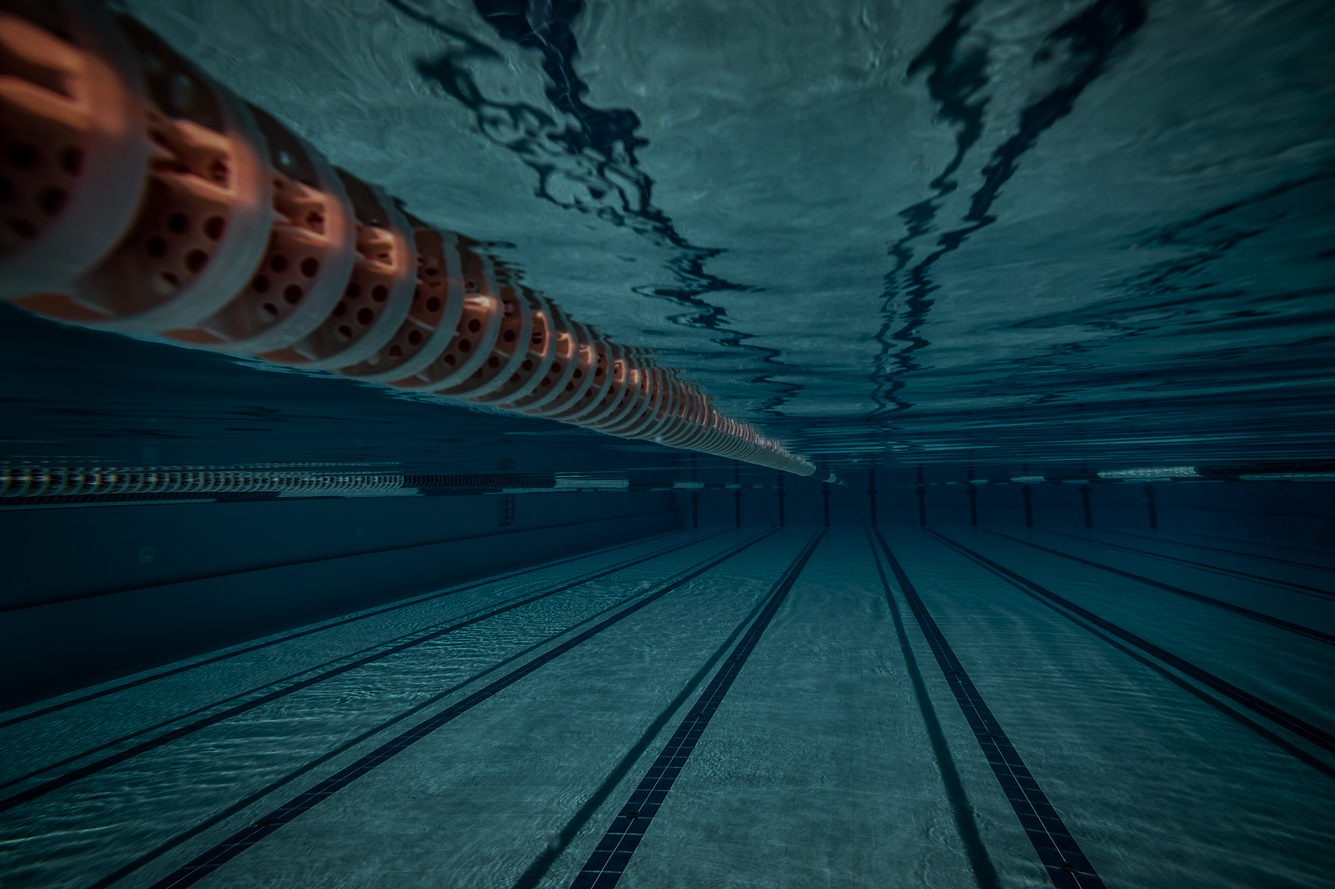
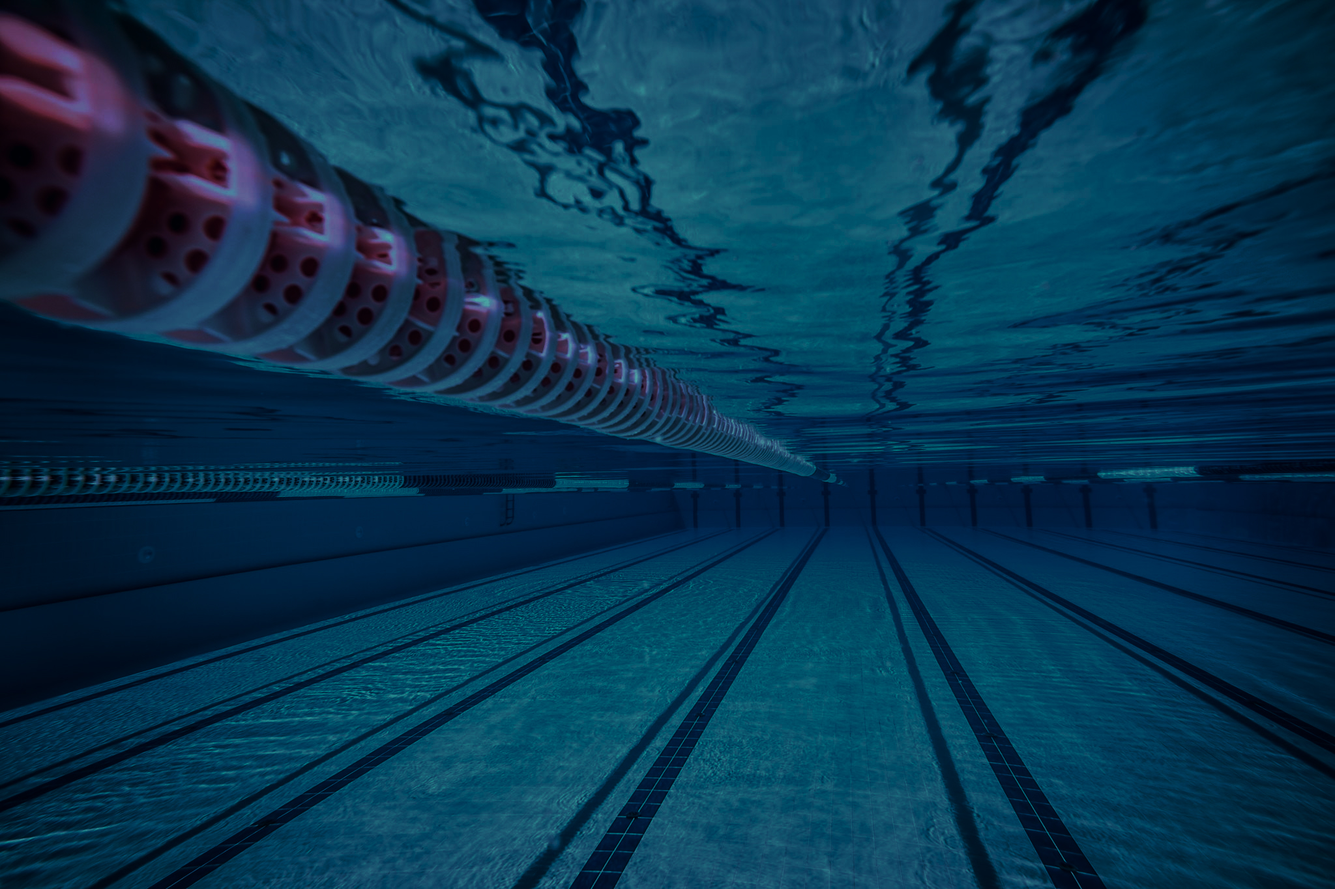
fix: Insere props validation e muda o bg

diff --git a/src/pages/ImportPage.jsx b/src/pages/ImportPage.jsx
@@ -5,7 +5,7 @@ import AboutUs from "../components/sections/AboutUs";
 import BackToTopButton from "../components/interactives/BackToTopButton";
 import FloatingWhatsappButton from "../components/interactives/FloatingWhatsappButton";
 import BannersCarousel from "../components/sections/BannersCarousel";
-import FAQ from "../components/sections/FAQ";
+import Faq from "../components/sections/Faq";
 import OurProducts from "../components/sections/OurProducts";
 
 export default function ImportPage() {
@@ -19,7 +19,7 @@ export default function ImportPage() {
       <BlankParallaxe bgImg={bgImg} />
       <BannersCarousel />
       <MarginBetweenSection />
-      <FAQ />
+      <Faq />
       <BackToTopButton />
       <FloatingWhatsappButton />
       <MarginBetweenSection />

diff --git a/src/components/sections/FAQ.jsx b/src/components/sections/FAQ.jsx
@@ -3,7 +3,7 @@ import MotionDivRightToLeft from "../animation/MotionDivRightToLeft";
 import faqImg from "../../assets/imgs/faq/faq.png";
 import SectionHeader from "../sectionElements/SectionHeader";
 
-export default function FAQ() {
+export default function Faq() {
   return (
     <div>
       <SectionHeader

diff --git a/src/components/interactives/ImagesGallery3Slides.jsx b/src/components/interactives/ImagesGallery3Slides.jsx
@@ -6,7 +6,9 @@ export default function ImagesGallery3Slides(props) {
   const { slide1, slide2, slide3 } = props;
 
   ImagesGallery3Slides.propTypes = {
-    props: PropTypes.any,
+    slide1: PropTypes.any,
+    slide2: PropTypes.any,
+    slide3: PropTypes.any,
   };
 
   const images = [

diff --git a/src/components/interactives/ImagesGallery2Slides.jsx b/src/components/interactives/ImagesGallery2Slides.jsx
@@ -6,7 +6,8 @@ export default function ImagesGallery2Slides(props) {
   const { slide1, slide2 } = props;
 
   ImagesGallery2Slides.propTypes = {
-    props: PropTypes.any,
+    slide1: PropTypes.any,
+    slide2: PropTypes.any,
   };
 
   const images = [
